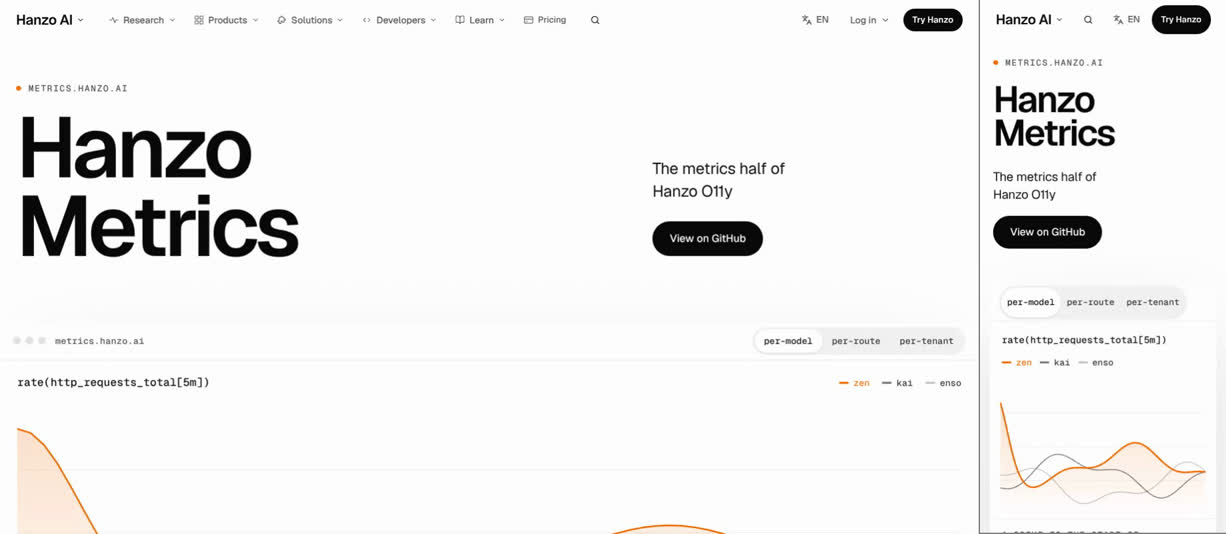
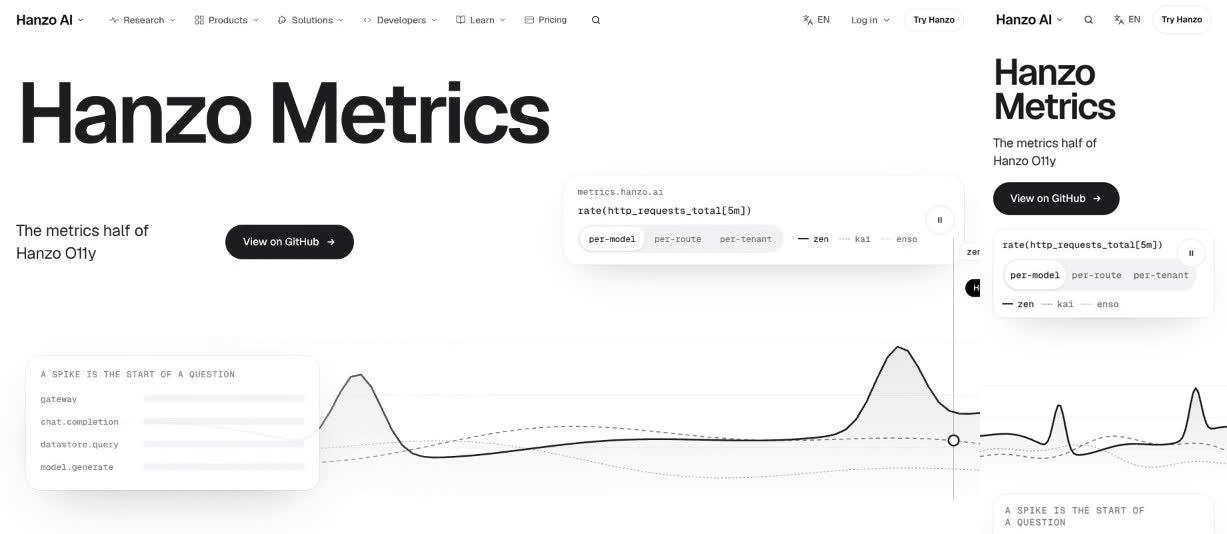
re-review: /metrics 6/10 on the recoloured build (labels follow the mouse, ask bar over content, everything big, card claims false)
Claude-Session: https://claude.ai/code/session_01DqUybEnABm6Lfey1goid2b

diff --git a/docs/review/metrics.md b/docs/review/metrics.md
@@ -1,47 +1,141 @@
 # /metrics: James-eye review
 
 Verdict: 6/10
-First complaint: "It's orange again. I said greys, silvers, blacks and whites, and colour only from our own media, but the chart, the bars, the tags and the arrow are all orange. There's a little label stuck on top of the headline too. And when it opens I'm looking at a big title on white with the chart cut in half at the bottom of my screen."
+First complaint: "The grey is right now and the live chart is a good start. But the title is enormous and every heading after it is big too, so nothing stands out. A little 'Hold' tag chases my mouse round the chart, and once I scroll a pill bar sits on top of the page, over the text. I said nothing floats over content."
 
-Reviewed: branch `claude/elegant-johnson-b2vx1q` @ `e02c4dc` (not on main yet). Files hash: `371e08d88787`
-Walked 7 Nov 13:30–13:45 UTC on the dev server, moving, at 1470×801 and 375×812 (videos, frame sheets and a frame-difference motion log kept by the critic; the once-per-visit site loader was skipped so the page is judged on its own).
+Reviewed: main @ `cb11693` (last page commit `c9784eb`). Files hash: `8b91cf41953e`
+Walked 7 Nov 14:35–14:44 UTC on the dev server, moving, at 1470×801 and 375×812 (videos, frame sheets and a frame-difference motion log kept by the critic; the site loader was skipped).
 Proof: `img/metrics.jpg` (desktop first screen | phone first screen).
 
-## The 11 answers
-1. **Sells in 5 seconds, moves within 1 second?** Half. The words are clear ("Hanzo Metrics / The metrics half of Hanzo O11y"), and the chart streams by itself, so something does move without input. But at 1470×801 the console sits on the fold: you see its toolbar and the top of one orange curve, not the product. The headline is hidden until the page's script runs: on the dev server the first screen is a lede and a button on white for about 2 s, then the 128px title appears in one step. Phone is better: the live chart is on the first screen.
-2. **One in, one out, or a document?** Mostly one in, one out. The six points are one pinned table that changes per chapter (01/06 to 06/06), which is the right Apple move. After that it turns back into a document: the dark room, then a "Related capabilities" list, then the Get block.
-3. **A real object in every section?** Yes for the hero (live chart, then traces), the chapters (the table) and the dark room (console with services building). The closing "Get Metrics" block has a faint Sigil but no object.
-4. **One ask, sticky after the hero?** No. Desktop: the page's ask is "View on GitHub", but after the hero the only sticky button is the global header's "Try Hanzo". Phone: the header's "Try Hanzo" and the bottom bar's "View on GitHub" are two solid buttons on every screen. The close adds a third solid ask, "Deploy to Cloud", on the same screen as both.
-5. **Every hover and press answers?** No. Hero "View on GitHub": no hover change and no press state. The per-model / per-route / per-tenant tabs: no hover at all (they do press to 0.98). The chapter dots only change opacity on hover (a banned tell: "buttons that fade on hover"). Copy presses well (0.94). Pressing a chapter dot jumps the page back up to that chapter, mid-scroll, which feels like a jump. Nothing on the page follows the pointer: no magnetic ask, no tilt, no cursor-aware light.
-6. **Overlap, font swap, layout shift?** None found. CLS 0 on desktop, 0.022 on phone (the "what" section and the falling list settle once), h1 box steady, no horizontal scroll at 375.
-7. **Which reference, and is its motion there?** apple.com product page: the pinned table that changes per chapter is there and is the best part. synchronized.studio (card opens into its page) is absent: "Related capabilities: Logs" is a plain row link. No anthropic-style hero figure.
-8. **Different from its neighbours?** No. The first screen is the shared Cloud kit skeleton: a two-line 128px "Hanzo X" on the left, lede and one black button on the right, a console strip on the fold, pinned 0N/0N chapters, one dark room, a "Get X" block. /ledger has the same first screen and order. James: "It's not just a template."
-9. **All 18 parts covered?** No; see below. `docs/coverage/metrics.md` is missing.
-10. **Banned tells?** Yes:
-   - Orange UI hue throughout (chart series, trace bars, "alert rule" and "token · org a" pills, tenant column, arrow). JAMES.md rule 7: the UI has 0 brand hues.
-   - "● METRICS.HANZO.AI" eyebrow 22px above the h1.
-   - A green "api" tag in the dark room's agent prompt (green accent).
-   - Opacity-only hover on the chapter dots.
-11. **Copy untouched?** Yes. Parity 59/59 text and 12/12 links. The added strings are drawn demo data (query, table rows, service names) plus a few labels ("a spike is the start of a question", "series = models", "1 more column"). They read as UI, not as new claims.
+## Since the last review
+- **Done: the orange, the green and the eyebrow.** The walk found no hues at either width (it was orange throughout). The three series are now an ink line, a dashed grey line and a dotted light line, and the "api" tag in the dark room is grey. Nothing sits above the h1 any more: "metrics.hanzo.ai" has moved into the chart's toolbar.
+- **Done: the product is the first screen.** At 1470×801 the one-line title, the lede, "View on GitHub", the toolbar and the whole live chart (curve, spike and traces card) fit inside 801px. With JS off the h1 shows and 0 text runs are hidden (it was 21). Also done: 0 `title=` tooltips (was 8), 0 phone text under 14px (was 32), 0 phone targets under 44px, 2 `data-cta` (was 0), Persona, Goal, CTA and Metric are in the header, and `docs/coverage/metrics.md` exists.
+- **Half done: one ask.** "View on GitHub" is now the solid button in the hero, in the sticky bar and at the close. "Deploy to Cloud" is a text link, and the bar steps aside for the close's own button (desktop s12, phone s9). But the bar now floats over content at both widths, which James has banned since the last review (answer 4).
+- **Half done: every control answers.** The hero ask now changes on hover and presses to 0.98 (it was dead). "per-route" presses to 0.97, and the opacity-only hover on the chapter dots is gone. Still failing: the pause button never presses, "Deploy to Cloud" only darkens its underline, and tapping a chapter tick on phone changed nothing (answer 5).
+- **Still open: the template, and contrast.** The hero is its own now, but after it the page is the Cloud 3 kit again (answer 8). Low contrast has improved from about 3:1 to 4.1:1, but 5 text runs are still under 4.5:1.
 
-## Missing from the 18 parts (PLAN-COMPONENTS §2.1–2.18, measured)
-- **2.1 Strategy / 4 Common gate:** no `Persona:`, `Goal:`, `CTA:` or metric id in the page header. More than one solid button shows per viewport (see answer 4).
-- **2.3 First impression:** with JS off, the h1 shows, but 21 pieces of text are hidden (chapters 02–06 and their lines). Plan 2.3 says JS-off must be legible. The "Related capabilities" card does not open into its page (Morph row).
-- **2.4 Conversion:** 0 `data-cta` on any primary. The thumb bar's verb differs from the close's.
-- **2.6 Content:** 32 text runs at 13px on phone, below the 14px floor ("per-model", series names, console labels).
-- **2.7 Visual system:** the orange and the green "api" tag break the 0-hue override.
-- **2.8 Components:** 8 `title=` tooltips on links/buttons (plan: 0). 11 bare `:hover` rules outside `@media (hover:hover)`. The hero button and tabs have no press state.
-- **2.9 Motion:** 2 `setInterval` timers in the page. The live chart has no pause control (WCAG 2.2.2 row in 2.12). Reduced motion is good: everything comes to rest.
-- **2.11 Mobile:** the "hanzoai/metrics 4 stars" chip (32px) and "Open in the console" (36px) are under 44px tall.
-- **2.12 Accessibility:** contrast under 4.5:1 on the chart legend "zen" (3.1:1), "01 / 06" (3.1:1), "one query" (3.0:1) and the dark room's "Example project…" (3.3:1).
-- **2.17 States:** no loading or failure state for the live chart or the "4 stars" figure.
-- **Coverage:** `docs/coverage/metrics.md` is missing.
-- Passing: one h1, one main, no horizontal scroll at 320, no raw img/video/table, reduced motion settles, CLS ≈ 0.
+## The 11 answers
+1. **Sells in 5 seconds, moves within 1 second?** Yes once it has loaded. Desktop arrival is unproven.
+   - Desktop: "Hanzo Metrics" (128px, one line), "The metrics half of Hanzo O11y", "View on GitHub" and the chart all sit inside 801px. During the first stop the chart streams, a spike rises about every 9 s, the "spike · zen" flag drops in and the traces card opens beside it (sheet 02).
+   - The desktop film shows the lede, the ask and the toolbar at 0.5 s, but no title and no chart line until about 6 s, and it logs 0 moving frames in the 3 s after paint.
+   - The phone, walked second, cut the title in on its very first frame, and the source is a CSS animation. So I read the desktop gap as the dev server's first compile plus a frozen recorder, not the design, and I don't score it.
+   - Phone: the title, lede, ask, toolbar and live chart are all on the first screen, with 13 of 25 frames moving in the first second.
+2. **One in, one out, or a document?** One in, one out, as far as the chapters go.
+   - "What a metric is here" opens the pinned scene beside the Datastore table. Then the six chapters swap one at a time while the table changes: PromQL ↔ builder, the label columns light up, the "alert rule" chip, then "token · org a" with the other orgs faded.
+   - The dark room wipes in on a timer, the Logs card follows, then "Get Metrics".
+   - On phone, the four chapter screens s3 to s6 are STILL (shotdiff 0): they only change when you scroll.
+   - Evidence caveat: the desktop grabs at s4, s5-a, s7-b and s8-a came back blank or nearly blank below the header. Over the same stretch the desktop film shows whole white frames with even the header missing. So the desktop chapter "moves" readings are not reliable. I judged the chapters from the good shots (s3, s5-b, s6-a, s7-a, s8-b) and the phone.
+3. **A real object in every section?** Yes:
+   - the live chart in the hero;
+   - the table through all six chapters, with the label check in chapter three ("series = models / 1 more column");
+   - the Paste prompt and a console that builds (`checkout-web` "Building") in the dark room;
+   - the Logs card with its Sigil;
+   - the Sigil card at the close.
+4. **One ask, nothing floating, scale with rhythm?** No on both counts.
+   - **Floats, desktop:** from s2 to s11 a pill bar ("Hanzo Metrics | search | View on GitHub") is fixed at the bottom centre. At s9 it sits on the right edge of the agent prompt box and across the console's sidebar. At s10 and s11 it sits on the Logs card.
+   - **Floats, phone:** the bottom bar covers the console's sidebar at s7, the "Logs" title on the related card at s8 (only the lower half of the word shows under it), and the footer's "Open source" at s10.
+   - **Floats, hero:** the chart has its own cursor label, "Hold" (it becomes "Run" once held), set by the page's `data-cursor`. It is still stuck at the right edge on s1, after the chart has gone. The crosshair carries a second tag ("zen · kai · enso"), and both are cut off by the screen edge in the s0 shot. The Logs card adds the kit's "Open" label.
+   - **Floats, traces card:** the traces card sits on the left third of the live chart. It is at 90% opacity, so the ink line shows through it behind "chat.completion".
+   - **Two solid fills:** on phone the header's "Try Hanzo" and the hero's "View on GitHub" are both solid black for the first 2.5 s (p-sheet-01, frames 1–5).
+   - **Scale, desktop:** everything is big. The h1 rests at 128px and never settles. "What a metric is here" is 76px, the six chapter titles are 52px, "Send a metric, then follow it" is 56px, and "Get Metrics" is 128px again. Live hanzo.ai rests at 52 / 26 / 64. Nothing on the page is set at 26px, and nothing starts big and shrinks. On the first screen the title, not the chart, is the big thing.
+   - **Scale, phone:** better: 56 / 40 / 28 / 56px.
+   - Note: `c9784eb` (14:33) came after this walk's commit. It only moves `data-ask-name` onto the hero section, and the bar already shows here.
+5. **Every hover and press answers?** Mostly. Pointer and press results:
+   - Hero "View on GitHub": answers on hover and presses to 0.98.
+   - "per-route": answers and presses to 0.97.
+   - Copy: answers and presses to 0.92.
+   - "Open in the console": answers and presses to 0.98.
+   - Chapter tick 04: answers.
+   - Pause: grows to 1.04 on hover (logged as a jump) and never presses. Its hover `scale(1.04)` comes after `:active { scale(.94) }` in `LivePause.css`, so the hover wins while you press.
+   - "Deploy to Cloud": logged DEAD. Its only hover is the underline going from 30% to full ink, and it has no press.
+   - The console's "Metrics — Hanzo" title: dead, no press.
+   - The selected "per-model" tab: no hover.
+   - Phone taps: "per-route" and Copy answer. The chapter ticks 01 and 04 showed no change on tap.
+   - Pointer: the crosshair reads the line under the mouse, which is good. But its tag only names the series ("zen · kai · enso"), not a value.
+6. **Overlap, font swap, layout shift?**
+   - Phone: on the first screen the pause button sits on the end of the split control, over "per-tenant" (27×11px, visible in the shot). That fails DONE.
+   - Phone CLS is 0.086: the dark-room console 0.044, the related section 0.044 and the chapter copy 0.042. Desktop CLS is 0.
+   - Desktop: the chart is one full-bleed `<button>` under the lede, the ask and the split tabs. Nothing collides on screen, but any click in the empty hero holds the chart.
+   - The h1 box is steady (one reading at each width). There is no horizontal scroll at 375 or 320.
+7. **Which reference, and is its motion there?**
+   - apple.com product page: yes. The product is the hero, and one table changes per pinned chapter.
+   - motion.dev: the crosshair, the spike flag and the timed wipe into the dark room (s9-a caught it mid-wipe) are there.
+   - synchronized.studio: the Logs card is set up to open into its page (`data-morph`), but the walk did not open it.
+   - anthropic launch: no hero figure.
+8. **Different from its neighbours?** The hero, yes; the rest, no.
+   - No other walked page leads with a live chart full-bleed under a one-line title, and /ledger no longer matches it.
+   - But /sign has the same one-line 128px "Hanzo X" with an object strip on the fold and pinned "0N / 05" chapters, and /ui and /treasury also use a one-line 128px "Hanzo X".
+   - After the hero it is the Cloud 3 kit, shared with /mq, /network, /node, /o11y, /playground, /pubsub, /realtime, /registry and /s3:
+     - the same `lx-display` 128px `LineMask` title;
+     - `PinnedChapters` with "0N / 06" and the tick rail (9 of 10 pages);
+     - a `ClipWipe` dark room with Paste and a console (10 of 10);
+     - `RelatedCards`;
+     - the `LaunchClose` "Get X" with its Sigil card (10 of 10).
+   - None of those pages has been walked, so this comparison is from source. James: "It's not just a template."
+9. **All 18 parts covered?** No; see below. The card has all 18 parts, but four of its claims fail the walk.
+10. **Banned tells?** Yes:
+    - cursor-following labels ("Hold"/"Run" on the chart, the crosshair's series tag, "Open" on the Logs card);
+    - a floating pill bar over content on desktop, and the phone bar over text;
+    - everything big at once (128 / 76 / 56 / 52 / 128px);
+    - an overlap (pause × "per-tenant" on phone);
+    - "01 / 06" to "06 / 06" in 13px mono set directly above each 52px chapter title (desktop).
+
+    Clean: no hues, nothing above the h1, no opacity-only hover, no tooltips, no sound, and no console errors at either width.
+11. **Copy untouched?** Yes. Parity is 59/59 text and 12/12 links. The 28 added strings are drawn demo data (the query, rows, span names, `org a`), labels ("series =", "1 more column", "alert rule") and the shared console's demo line "a build is running from the last commit on main." "a spike is the start of a question" is cut from Hanzo's own chapter four sentence. Nothing claims a new fact or number.
+
+## Missing from the 18 parts (MASTER §2, measured; coverage card checked)
+- **Coverage card:** `docs/coverage/metrics.md` covers all 18 parts as numbered paragraphs, but four claims are false:
+  - Part 12, "Text contrast is 4.5:1 or better": 5 runs measure 4.1:1 at 1470, 375 and 320 ("a spike is the start of…", "gateway", "chat.completion", "datastore.query", "model.generate").
+  - Part 9, "A pause control … sits first in the chart's toolbar": it comes last, after the split and the legend.
+  - Part 8, "Every press scales to .97–.98": the pause never presses, and "Deploy to Cloud" has no press.
+  - Part 13, "Motion is transform, opacity and clip-path only": the chart rewrites four SVG `d` attributes every frame.
+- **Part 1 / 4, the sticky ask:** the bar floats over content on desktop (s2 to s11) and covers text on phone (s7, s8, s10; answer 4). On phone, "Try Hanzo" and "View on GitHub" are both solid for the first 2.5 s.
+- **Part 6 / §3.1, scale:** the desktop rests at 128 / 76 / 56 / 52 / 128px against live hanzo.ai's 52 / 26. Nothing grows and then settles.
+- **Part 7, the visual system:**
+  - "01 / 06" sits directly above each chapter heading.
+  - The table, the toolbar and the traces card are each outlined (a 1px ring) and raised (a 40–100px shadow). Part 7 says one or the other, and that only floating things take a shadow.
+  - `Metrics.css` holds 33 literal hex values, most of them Apple greys outside the deck (`#1d1d1f` ×10, `#f2f2f4`, `#6e6e73`, `#8e8e93`, `#c7c7cc`), and 22px radii that are not on the token list.
+- **Part 8, components:** the pause has no press. "Deploy to Cloud" and the console title barely answer. The chart animates path geometry, not transform.
+- **Part 9, motion:** the cursor labels above. On phone, four chapter screens in a row (s3 to s6) do not move untouched.
+- **Part 11, mobile:**
+  - The chapters still pin on phone (a sticky 100svh stage with the table on top). Part 11 says stack them under 900px.
+  - The pause overlaps "per-tenant".
+  - Phone CLS is 0.086.
+- **Part 12, accessibility:** the 5 runs at 4.1:1, all inside the traces card, which sits at `opacity: .9` until a spike. `.mt-h1 { white-space: nowrap }` on desktop, which part 12 bans. The pause is last in the toolbar's DOM.
+- **Part 13, performance:**
+  - The chart's per-frame path rewrites showed as 2,828 and 2,454 DOM changes on the first two desktop stops and 7,306 on phone s1.
+  - The walker's grabs on the first three stops took 13–61 s at both widths (2 s for every later stop).
+  - A page walked at the same time also slowed once (/iam, one 57 s stop), so part of this is the machine. Still, this is the heaviest pack so far.
+- Passing:
+  - structure: one h1, visible with JS off; 0 hidden text with JS off; one main;
+  - layout: no horizontal scroll at 320; no text under 13/14px; no target under 44px; 0 `title=`;
+  - asks and copy: 2 `data-cta` and 2 `data-thumb`; parity 59/59;
+  - colour and motion: no hues; reduced motion settles (0 running after 3 s);
+  - stability: the h1 box steady; desktop CLS 0; no console errors;
+  - kit parts: no raw img, video or table; a Band at the end; gallery proof in `docs/gallery/metrics/`.
 
 ## Fixes (in order)
-1. **Take the orange out.** Draw the zen/kai/enso series as ink, mid grey and light grey (weight or dash to tell them apart), and make the trace bars, pills, tenant column and arrow grey or ink. Remove the green "api" tag too.
-2. **Delete the "● METRICS.HANZO.AI" eyebrow above the h1.** If the address must stay, put it in the console toolbar, where it already appears.
-3. **Make the first screen the product at 1470×801.** Shrink the gap so the whole console is visible under the title, or put the console beside the title at full height. Render the h1 visible in the server HTML: the cut-in may animate from a visible state, but never from nothing.
-4. **One ask.** Choose the page's verb (it is "View on GitHub" in the hero), make the phone bottom bar and a desktop sticky bar carry that same verb, and make the close repeat it as the one solid button. "Deploy to Cloud" becomes the text row beneath.
-5. **Every control answers.** The hero button and tabs need a visible hover that is not opacity (fill or ink shift, an arrow nudge) and a press of scale 0.98. The chapter dots need a real hover (a width or label reveal), and clicking one should scrub the pinned table, not jump the page.
-6. **Break the template.** Give /metrics a first screen /ledger doesn't have, for example the chart full-bleed behind the title with the spike landing under the cursor. Make "Related capabilities" a card that opens into /logs.
+1. **Take the labels off the pointer.**
+   - Set `data-cursor=""` on the chart button in `Metrics.jsx` (now "Hold"/"Run") and on the Logs card, either through a `RelatedCards` prop or `data-cursor=""` on its link.
+   - Delete the crosshair's tag (`.mt-x b`, "zen · kai · enso"). Keep the line and the dot that ride the curve; the legend in the toolbar already names the series.
+2. **Get the ask bar off the content.** Write `docs/requests/metrics.md` for the shared ask bar:
+   - no bar at 900px and up, because the header already carries the ask;
+   - on phone, keep it hidden from the dark room to the end of the page, because the close has its own "View on GitHub". Today the bar covers the console, the "Logs" title and the footer's "Open source".
+
+   The page fails until this lands, so chase it.
+3. **Give the type a rhythm.**
+   - Rest the h1 at 52px. It may cut in large and settle to 52px as the chart draws, so the chart becomes the big thing on screen one.
+   - Set "What a metric is here", the six chapter titles and "Send a metric, then follow it" to 26px, and "Get Metrics" to 52px. Override them in `Metrics.css` under `.mt`.
+   - Drop `white-space: nowrap` from `.mt-h1`.
+4. **Clear the headings and the toolbar.**
+   - Move "01 / 06" below each chapter title (same words, as a caption), or into the tick rail.
+   - On phone, take the pause out of the split row so it no longer sits on "per-tenant".
+   - Put the pause first in the toolbar's markup.
+   - Add `.mt .lx-pause:hover:active { transform: scale(.94) }` to `Metrics.css` so it presses.
+5. **Make the card true.**
+   - Remove `opacity: .9` from `.mt-traces` (keep the 12px lift). That brings the five 4.1:1 runs over 4.5:1 and stops the line showing through the card.
+   - Pick outline or shadow for the table, the toolbar and the traces card, not both.
+   - Then correct the card's lines for parts 8, 9, 12 and 13.
+6. **Lighten the chart and the chapters.**
+   - Draw each series once at twice the width and slide it with `translateX`, instead of rewriting four paths every frame.
+   - Stack the chapters on phone (each chapter's table state above its words), as part 11 asks. Every word stays.
